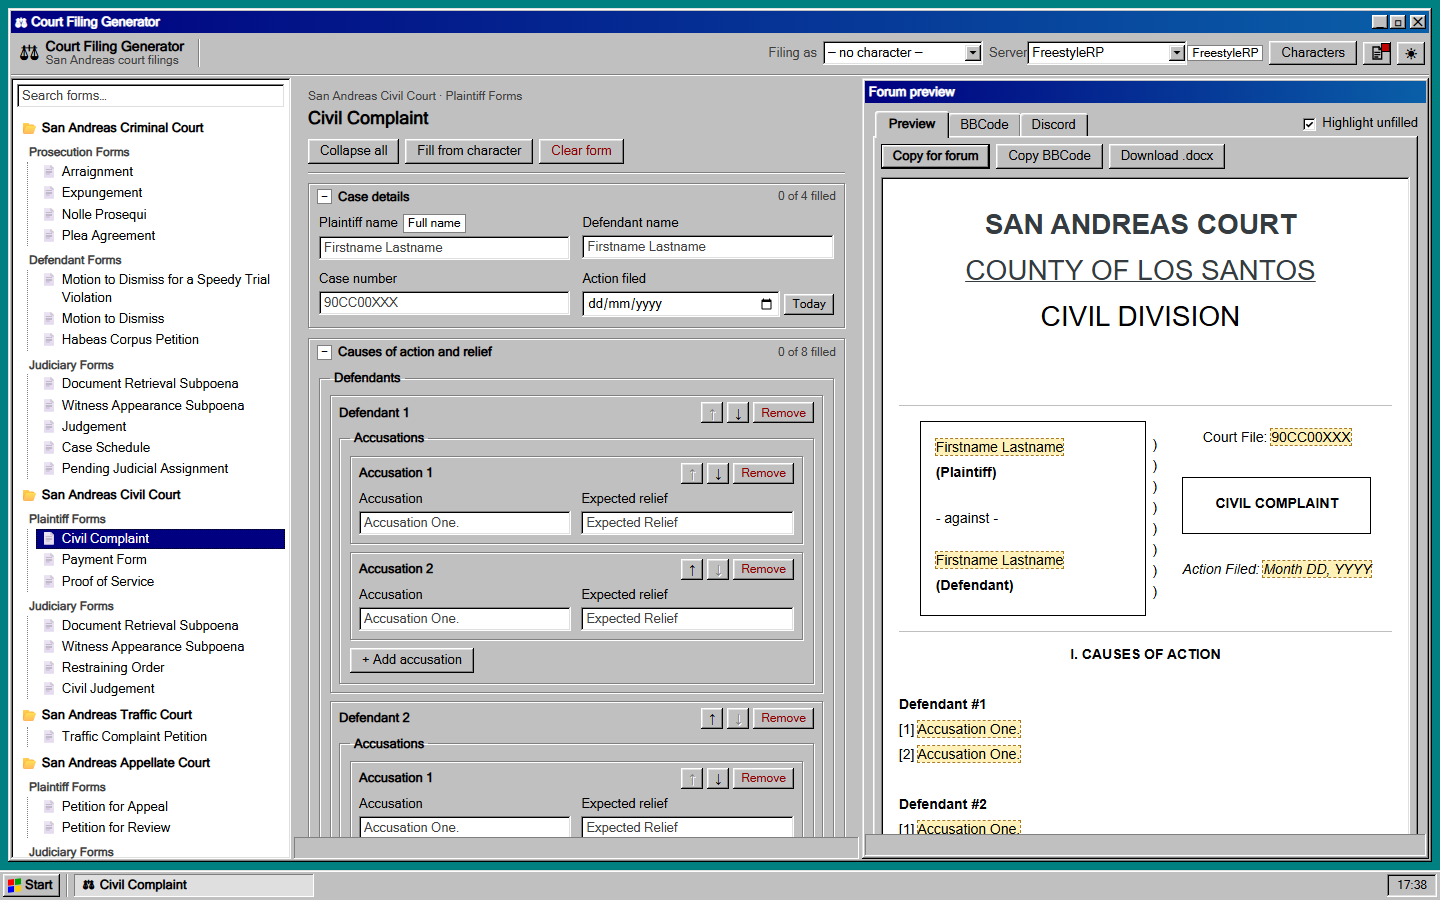
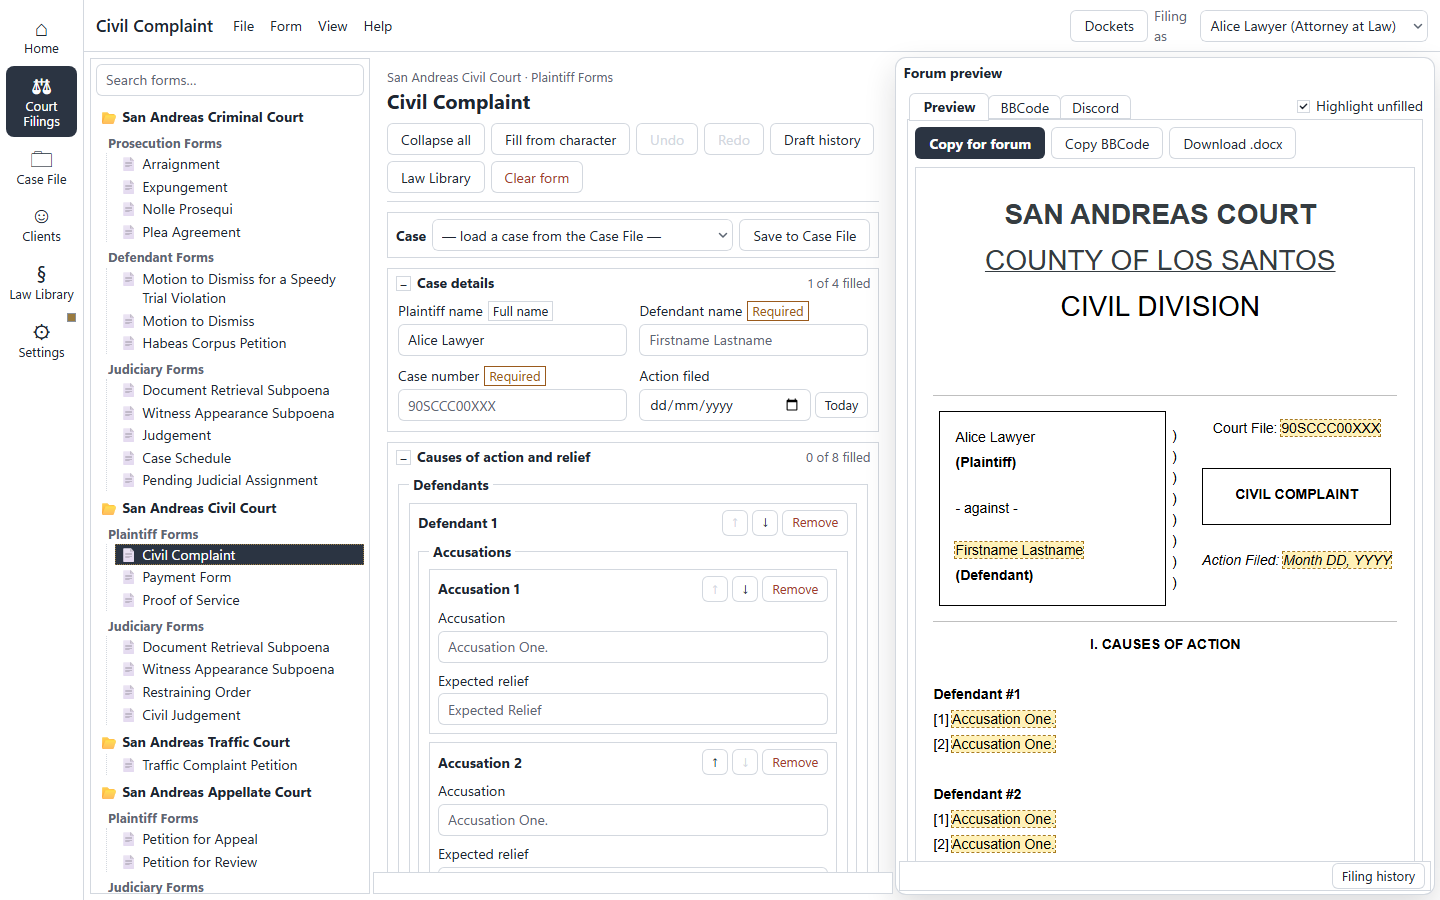
docs(app): where things moved, journeys in both layouts [LP-111]
What's new gets a "Where things moved" entry. The smoke tests open
each program from the home screen and run its key journey (a form,
a case, intake, the penal code, a setting) in Modern and Classic.
The README screenshots show the programs layout and Classic, and
CLAUDE.md gains the modern-first direction, the program registry
with each program's folder and routes, and the theme rules.

diff --git a/e2e/smoke.spec.ts b/e2e/smoke.spec.ts
@@ -1,13 +1,20 @@
 // End-to-end smoke tests (LP-6): the key journeys in a real browser, at desktop
 // and phone widths (playwright.config.ts). Each test starts from empty storage.
+// Each program's own journey starts from the home screen, in both layouts (LP-111).
 import { expect, test, type Page } from "@playwright/test";
+import { LAYOUTS } from "./views";
 
-/** Open a form the way a user does: Court Filings from the home screen, then the sidebar (behind ☰ on a phone). */
-async function openForm(page: Page, id: string): Promise<void> {
+/** Open a program the way a user does: its tile on the Modern home, its icon in Classic's Program Manager. */
+async function openFromHome(page: Page, id: string): Promise<void> {
   await page.goto("/");
   // The app renders in the browser after a brief "Loading…": wait for the home screen (LP-127).
-  await page.locator("#tile-filings").click();
+  await page.locator(`#tile-${id}, #pm-${id}`).click();
   await expect(page.locator(".m-app, .app-window").first()).toBeVisible();
+}
+
+/** Open a form: Court Filings from the home screen, then the sidebar (behind ☰ on a phone). */
+async function openForm(page: Page, id: string): Promise<void> {
+  await openFromHome(page, "filings");
   const toggle = page.locator("#toggle-nav");
   if (await toggle.isVisible()) await toggle.click();
   await page.locator(`#sidebar a[href="#filings/${id}"]`).click();
@@ -23,17 +30,80 @@ async function seedJudge(page: Page): Promise<void> {
   });
 }
 
-test("open a form, fill it in, and the preview follows", async ({ page }) => {
-  await openForm(page, "civil-complaint");
-  const preview = page.locator("#preview");
-  await expect(preview).toContainText("SAN ANDREAS COURT");
-  await page.locator("#f-plaintiff-name").fill("Ann Lee");
-  await page.locator("#f-defendant-name").fill("Bo Day");
-  await expect(preview).toContainText("Ann Lee");
-  await expect(preview).toContainText("Bo Day");
-  // The case number placeholder is the in-game SC pattern.
-  await expect(page.locator("#f-case-number")).toHaveAttribute("placeholder", /^\d{2}SCCC00XXX$/);
-});
+for (const layout of LAYOUTS) {
+  test.describe(`${layout} layout`, () => {
+    test.beforeEach(async ({ page }) => {
+      await page.addInitScript((layout) => {
+        localStorage.setItem("lawapp_shell", layout);
+        // Classic's startup screen shows once per session; skip it.
+        sessionStorage.setItem("lawapp_booted", "1");
+      }, layout);
+    });
+
+    test("Court Filings: open a form, fill it in, and the preview follows", async ({ page }) => {
+      await openForm(page, "civil-complaint");
+      const preview = page.locator("#preview");
+      await expect(preview).toContainText("SAN ANDREAS COURT");
+      await page.locator("#f-plaintiff-name").fill("Ann Lee");
+      await page.locator("#f-defendant-name").fill("Bo Day");
+      await expect(preview).toContainText("Ann Lee");
+      await expect(preview).toContainText("Bo Day");
+      // The case number placeholder is the in-game SC pattern.
+      await expect(page.locator("#f-case-number")).toHaveAttribute("placeholder", /^\d{2}SCCC00XXX$/);
+    });
+
+    test("Case File: add a case, find it, and open it", async ({ page }, testInfo) => {
+      await seedJudge(page);
+      await openFromHome(page, "cases");
+      await expect(page.locator("#case-file-title")).toHaveText("Case File");
+      await page.locator("#case-new").click();
+      await page.locator("#case-caseNumber").fill("90SCCR00321");
+      await page.locator("#case-plaintiff").fill("Ann Lee");
+      await page.locator("#case-lead").selectOption("e2ejudge1");
+      await page.locator("#case-save").click();
+      await expect(page).toHaveURL(/#cases\/[a-z0-9]+$/);
+      await expect(page.locator("#case-form-title")).toHaveText("90SCCR00321");
+
+      // Back to the list (on a phone the case replaces it), then search for it.
+      if (testInfo.project.name === "phone") {
+        await expect(page.locator("#case-list")).toBeHidden();
+        await page.locator(".case-back").click();
+      } else {
+        await page.goto("/#cases");
+      }
+      await page.locator("#case-search").fill("ann");
+      await expect(page.locator(".case-row")).toHaveCount(1);
+      await expect(page.locator(".case-row")).toContainText("Lead: Judy Bench");
+    });
+
+    test("Clients: a new client's intake opens a case", async ({ page }) => {
+      await seedJudge(page);
+      await openFromHome(page, "clients");
+      await expect(page.locator("#intake-title")).toHaveText("New client intake");
+      await page.locator("#intake-clientName").fill("Ann Lee");
+      await page.locator("#intake-summary").fill("Wants to sue her landlord.");
+      await page.locator("#intake-open").click();
+      // The case gets a stand-in number until the court gives it one.
+      await expect(page).toHaveURL(/#cases\/[a-z0-9]+$/);
+      await expect(page.locator("#case-form-title")).toHaveText("PENDING-1");
+    });
+
+    test("Law Library: search the penal code", async ({ page }) => {
+      await openFromHome(page, "library");
+      await page.locator("#code-q").fill("assault");
+      await expect(page.locator("#code-list")).toContainText("PC 1001");
+      await page.locator("#code-q").fill("no such charge at all");
+      await expect(page.locator("#code-none")).toBeVisible();
+    });
+
+    test("Settings: switch to the dark theme", async ({ page }) => {
+      await openFromHome(page, "control");
+      await page.locator("#control-theme").selectOption("dark");
+      await expect(page.locator("html")).toHaveAttribute("data-theme", "dark");
+      await expect(page.locator("html")).toHaveAttribute("data-look", layout);
+    });
+  });
+}
 
 test("Copy for forum puts the filing on the clipboard as HTML", async ({ page, context, browserName }) => {
   test.skip(browserName !== "chromium", "clipboard permissions are Chromium-only");
@@ -96,30 +166,6 @@ test("add a case to a judge's docket", async ({ page }) => {
   await page.locator("#docket-plaintiff").fill("People");
   await page.locator("#docket-form button[type=submit]").click();
   await expect(page.locator("#docket-list")).toContainText("90SCCR00147");
-});
-
-test("Case File: add a case, find it, and open it", async ({ page }, testInfo) => {
-  await seedJudge(page);
-  await page.goto("/#cases");
-  await expect(page.locator("#case-file-title")).toHaveText("Case File");
-  await page.locator("#case-new").click();
-  await page.locator("#case-caseNumber").fill("90SCCR00321");
-  await page.locator("#case-plaintiff").fill("Ann Lee");
-  await page.locator("#case-lead").selectOption("e2ejudge1");
-  await page.locator("#case-save").click();
-  await expect(page).toHaveURL(/#cases\/[a-z0-9]+$/);
-  await expect(page.locator("#case-form-title")).toHaveText("90SCCR00321");
-
-  // Back to the list (on a phone the case replaces it), then search for it.
-  if (testInfo.project.name === "phone") {
-    await expect(page.locator("#case-list")).toBeHidden();
-    await page.locator(".case-back").click();
-  } else {
-    await page.goto("/#cases");
-  }
-  await page.locator("#case-search").fill("ann");
-  await expect(page.locator(".case-row")).toHaveCount(1);
-  await expect(page.locator(".case-row")).toContainText("Lead: Judy Bench");
 });
 
 test("Ctrl+K jumps to a form, and Esc closes the box and gives the focus back", async ({ page }) => {

diff --git a/src/data/changelog.ts b/src/data/changelog.ts
@@ -18,6 +18,27 @@ export interface ChangelogEntry {
 
 export const CHANGELOG: ChangelogEntry[] = [
   {
+    date: "2026-10-28",
+    title: "Where things moved",
+    items: [
+      {
+        type: "update",
+        text: "Everything is now a program, opened from the home screen or the bar down the side: the court forms are in Court Filings, and the Case File, Clients, Law Library and J.A.P. each have their own.",
+      },
+      { type: "update", text: "Upcoming is inside the Case File, in its side pane." },
+      { type: "update", text: "New client intake and the Conflict check are in Clients." },
+      { type: "update", text: "The penal code and the firm's precedents are in the Law Library." },
+      {
+        type: "update",
+        text: "Your characters, sync and backups, What's new and About are in Settings (the Control Panel in Classic). Characters are also in the File menu.",
+      },
+      {
+        type: "update",
+        text: "Light or dark, and the 1990 look (Theme → Classic (1990)), are in Settings → Appearance and the View menu.",
+      },
+    ],
+  },
+  {
     date: "2026-10-26",
     title: "The Classic (1990) theme",
     items: [

diff --git a/tests/theme-changelog.test.ts b/tests/theme-changelog.test.ts
@@ -68,7 +68,7 @@ describe("changelog", () => {
   const added: ChangelogEntry[] = [{ date: "2026-12-01", items: [{ type: "fix", text: "A fix." }] }, ...CHANGELOG];
 
   it("stamps the newest entry and the entry count", () => {
-    expect(stamp()).toBe("2026-10-26|The Classic (1990) theme|1|43");
+    expect(stamp()).toBe("2026-10-28|Where things moved|6|44");
     expect(stamp([])).toBe("");
   });
 

diff --git a/docs/README.md b/docs/README.md
@@ -1,17 +1,17 @@
 # Developer documentation
 
-How the Court Filing Generator's code works, for anyone working on it. For what the app does, see
+How the Court Filing System's code works, for anyone working on it. For what the app does, see
 the [main README](../README.md).
 
-| Doc                                           | Read it for                                                                                                                                                             |
-| --------------------------------------------- | ----------------------------------------------------------------------------------------------------------------------------------------------------------------------- |
-| [Development](development.md)                 | Setting up a fresh clone, running the app (including on your LAN), every npm script, environment variables, common problems.                                            |
-| [Architecture](architecture.md)               | The big picture: client-only Next.js app, hash routing, the stores, the API routes and host check, and how a filing flows from form to forum, BBCode, Discord and Word. |
-| [Templates and forms](templates-and-forms.md) | The `{{token}}` syntax, escaping, the template-safety check, adding a form, court settings, regenerating the court forms, the reference data.                           |
-| [Sync, storage and recovery](sync.md)         | Sync codes, server storage, how conflicts are merged, full backup and restore, how damaged saved data is kept.                                                          |
-| [Testing](testing.md)                         | The test suites, what the XSS test protects, snapshots, parity tests, CI, the Playwright scripts.                                                                       |
-| [Contributing](contributing.md)               | How we work: Jira, branches, commit and PR conventions, the Definition of Done.                                                                                         |
-| [Releasing](releasing.md)                     | Shipping a version: version bump, What's new, tag, GitHub Release, Jira.                                                                                                |
-| [Dependencies](dependencies.md)               | Dependabot update PRs and how to handle them, the security audit in CI, npm overrides.                                                                                  |
+| Doc                                           | Read it for                                                                                                                                                                                                                              |
+| --------------------------------------------- | ---------------------------------------------------------------------------------------------------------------------------------------------------------------------------------------------------------------------------------------- |
+| [Development](development.md)                 | Setting up a fresh clone, running the app (including on your LAN), every npm script, environment variables, common problems.                                                                                                             |
+| [Architecture](architecture.md)               | The big picture: client-only Next.js app, the programs and their registry, the Modern and Classic layouts, hash routing, the stores, the API routes and host check, and how a filing flows from form to forum, BBCode, Discord and Word. |
+| [Templates and forms](templates-and-forms.md) | The `{{token}}` syntax, escaping, the template-safety check, adding a form, court settings, regenerating the court forms, the reference data.                                                                                            |
+| [Sync, storage and recovery](sync.md)         | Sync codes, server storage, how conflicts are merged, full backup and restore, how damaged saved data is kept.                                                                                                                           |
+| [Testing](testing.md)                         | The test suites, what the XSS test protects, snapshots, parity tests, CI, the end-to-end, screenshot and accessibility tests, the Playwright scripts.                                                                                    |
+| [Contributing](contributing.md)               | How we work: Jira, branches, commit and PR conventions, the Definition of Done.                                                                                                                                                          |
+| [Releasing](releasing.md)                     | Shipping a version: version bump, What's new, tag, GitHub Release, Jira.                                                                                                                                                                 |
+| [Dependencies](dependencies.md)               | Dependabot update PRs and how to handle them, the security audit in CI, npm overrides.                                                                                                                                                   |
 
 `screenshots/` holds the images used in the main README.

diff --git a/CLAUDE.md b/CLAUDE.md
@@ -14,3 +14,36 @@ How to work here: [docs/contributing.md](docs/contributing.md) (branches, commit
 `npm run lint` enforces the import rules (see "Code layout" in docs/architecture.md): no deep imports into a program,
 no `../` out of one, and nothing in `src/lib` or `src/ui` importing the shell or a program. New code shared by two
 programs goes in `src/ui/` or `src/lib/`.
+
+## Direction: modern first
+
+The modern look is the default and what new work is designed for (LP-125). Classic (1990) is an optional theme
+(LP-112) that must keep working: build for Modern, then check Classic. The smoke and screenshot tests run both.
+
+## Programs
+
+The programs are one registry, `PROGRAMS` in `src/shell/registry.ts`: a new program is one entry there plus its folder.
+Routes are prefixed by program (`src/shell/useRoute.ts`); an empty hash is home.
+
+| Program                             | Folder                  | Routes                                       |
+| ----------------------------------- | ----------------------- | -------------------------------------------- |
+| Court Filings                       | `src/programs/filings/` | `#filings`, `#filings/<formId>`              |
+| Case File                           | `src/programs/cases/`   | `#cases`, `#cases/<id>`, `#cases/upcoming`   |
+| Clients                             | `src/programs/clients/` | `#clients/intake`, `#clients/conflicts`      |
+| Law Library                         | `src/programs/library/` | `#library/penal-code`, `#library/precedents` |
+| J.A.P. (Court Commissioners)        | `src/programs/jap/`     | `#jap`                                       |
+| Settings (Control Panel in Classic) | `src/programs/control/` | `#control`                                   |
+
+Home is `src/shell/ModernHome.tsx` in Modern and `src/shell/ProgramManager.tsx` in Classic.
+
+## Themes
+
+- `html[data-look]` (`modern` or `classic`) and `html[data-theme]` (`light`, `dark`, or absent for system) are
+  separate, both set before the first paint by `THEME_SCRIPT` (`src/lib/theme.ts`).
+- What differs between looks is a variable in `src/app/globals.css`. `data-look` rules hold only variables, and a
+  program's stylesheet (`src/programs/<id>/<id>.css`) uses only variables, never hard-coded colours, fonts, font
+  sizes, radii or bevels. `tests/stylesheets.test.ts` checks both.
+- The forum preview (`.post`), the Discord message and the print sheets keep fixed looks in every theme, and court
+  forms never carry firm branding.
+- A change that moves a screen fails the screenshot tests; take the new ones with `npm run screenshots:accept`
+  (docs/testing.md).

diff --git a/README.md b/README.md
@@ -83,6 +83,8 @@ and **Help** menus, and the character you're filing as, the same in every progra
 scroll, never the whole page. Switching programs keeps each one's place: the form you were filling
 in, your searches and where you'd scrolled to are still there when you come back.
 
+![The home screen: a tile for each program, and what needs your attention](docs/screenshots/home-light.png)
+
 - **Court Filings.** 39 FreestyleRP court forms grouped by court (Criminal, Civil, Traffic, Small
   Claims, Appellate, Supreme, general), plus 13 of the firm's own templates: General Petition,
   Petition for Name Change, General Motion, Interrogatories, Subpoena, Service Agreement, four firm
@@ -112,8 +114,8 @@ in, your searches and where you'd scrolled to are still there when you come back
   progress and the finished BBCode. Only Court Commissioners see it.
 - **Home.** A tile for each program, and what needs your attention: deadlines due in the next 48
   hours or overdue, your latest filings to open again, and the cases you worked on most recently.
-- **Settings.** Characters, sync and backups, the theme (automatic, light or dark), the startup
-  screen, What's new and About, on one page. The top bar of every program shows who you're filing
+- **Settings.** Characters, sync and backups, Appearance (the theme, Modern or Classic, and light,
+  dark or system), What's new and About, on one page. The top bar of every program shows who you're filing
   as, with a quick switch, and the sync status.
 - **Jump to anything.** Press **Ctrl+K** (**Cmd+K** on a Mac) or **/**, or choose View → Jump to, and
   type a few letters to go straight to a program, a section such as Upcoming or Precedents, or any
@@ -124,6 +126,8 @@ puts the programs in a Windows 3.x window with a taskbar, a Program Manager and 
 screen once per session, with an optional readable font. Light, dark or system is a separate
 choice, so it works with either theme. The programs are the same in both; in Classic, Settings is
 called the Control Panel.
+
+![The Classic (1990) theme's Program Manager](docs/screenshots/classic-home-light.png)
 
 ## Your data and sync
 

diff --git a/docs/testing.md b/docs/testing.md
@@ -93,7 +93,14 @@ In CI the build is its own step, so `test:e2e` only starts the app.
 `e2e/smoke.spec.ts` uses Playwright's test runner (`playwright.config.ts`) to walk the key journeys in
 a real Chromium, at **desktop** (1440×900) and **phone** (Pixel 7) sizes, each from empty storage:
 
-- open a form from the sidebar (behind ☰ on a phone), fill it in, and see the preview follow;
+- each program's key journey, opened from the home screen (a tile in Modern, an icon in Classic's
+  Program Manager) and run in **both layouts** (LP-111):
+  - **Court Filings**: open a form from the sidebar (behind ☰ on a phone), fill it in, and see the
+    preview follow;
+  - **Case File**: add a case, search for it and find it;
+  - **Clients**: a new client's intake opens a case;
+  - **Law Library**: search the penal code;
+  - **Settings**: switch to the dark theme;
 - **Copy for forum**: the clipboard holds the filing as HTML;
 - **Download .docx**: a real Word file (a zip) downloads;
 - add a character, and it appears in "Filing as";
@@ -145,5 +152,5 @@ an argument (default `http://127.0.0.1:3000`).
   speed, and checks the preview renders on load, reload, restore, back/forward, search and with
   seeded characters and dockets, plus the FreestyleRP wording and case numbers. Prints
   `OK: <n> preview checks … passed.` or lists the failures.
-- **`npm run screenshots`**: saves home, form, dialog and Discord-tab screenshots in both themes to
-  `.agents/screenshots/`. The README's screenshots are copied from there into `docs/screenshots/`.
+- **`npm run screenshots`**: saves home, form, Settings, Discord-tab and Classic home screenshots
+  in light and dark, with one character and one case, to `.agents/screenshots/`. The README's screenshots are copied from there into `docs/screenshots/`.
